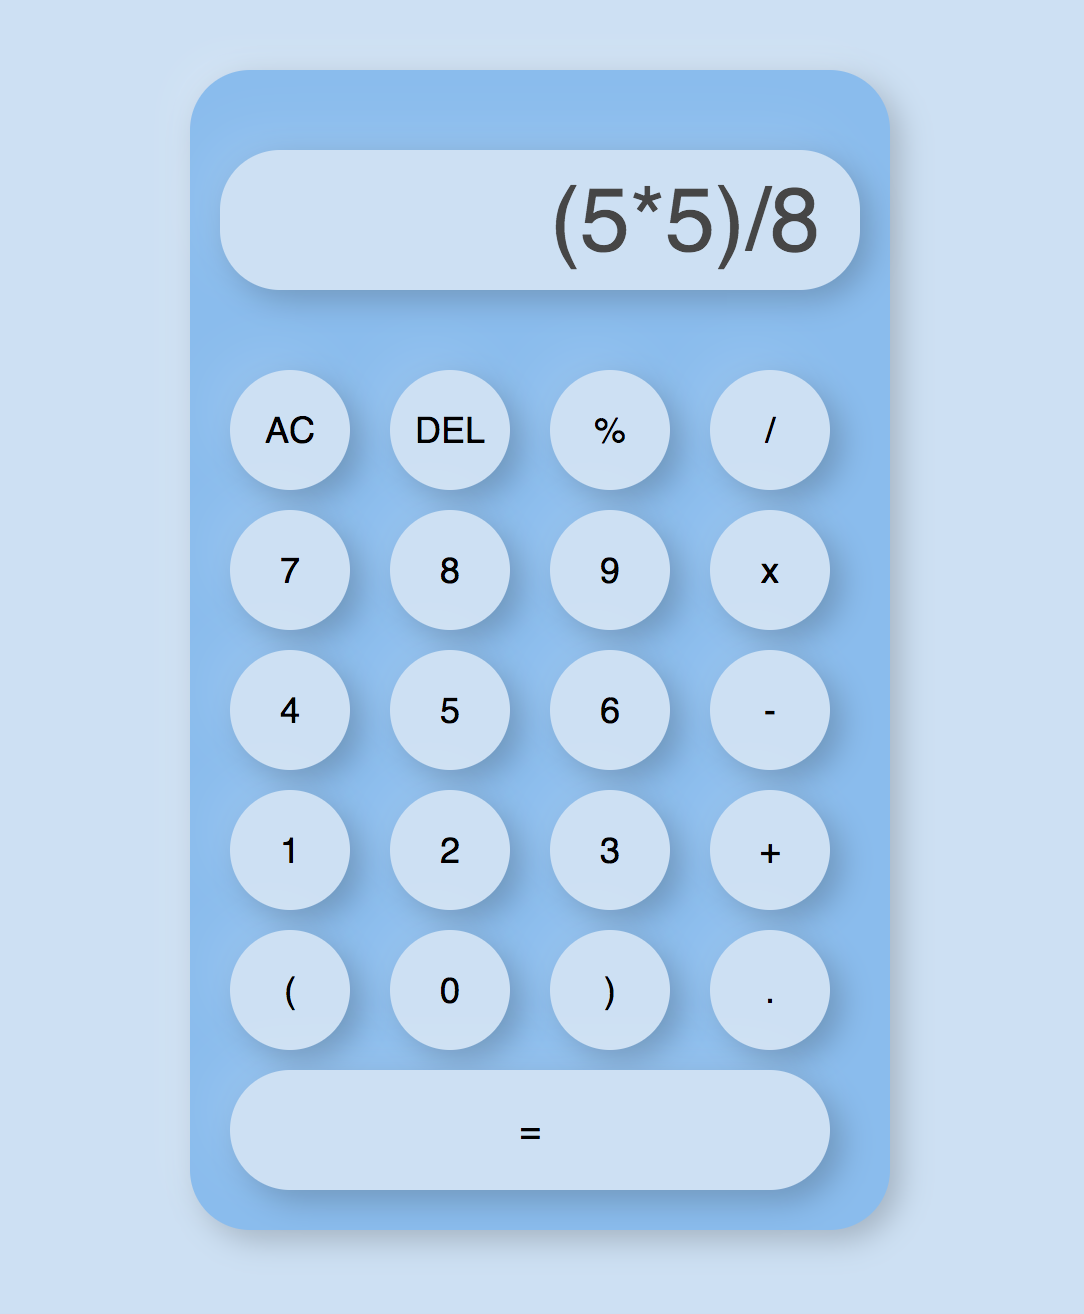
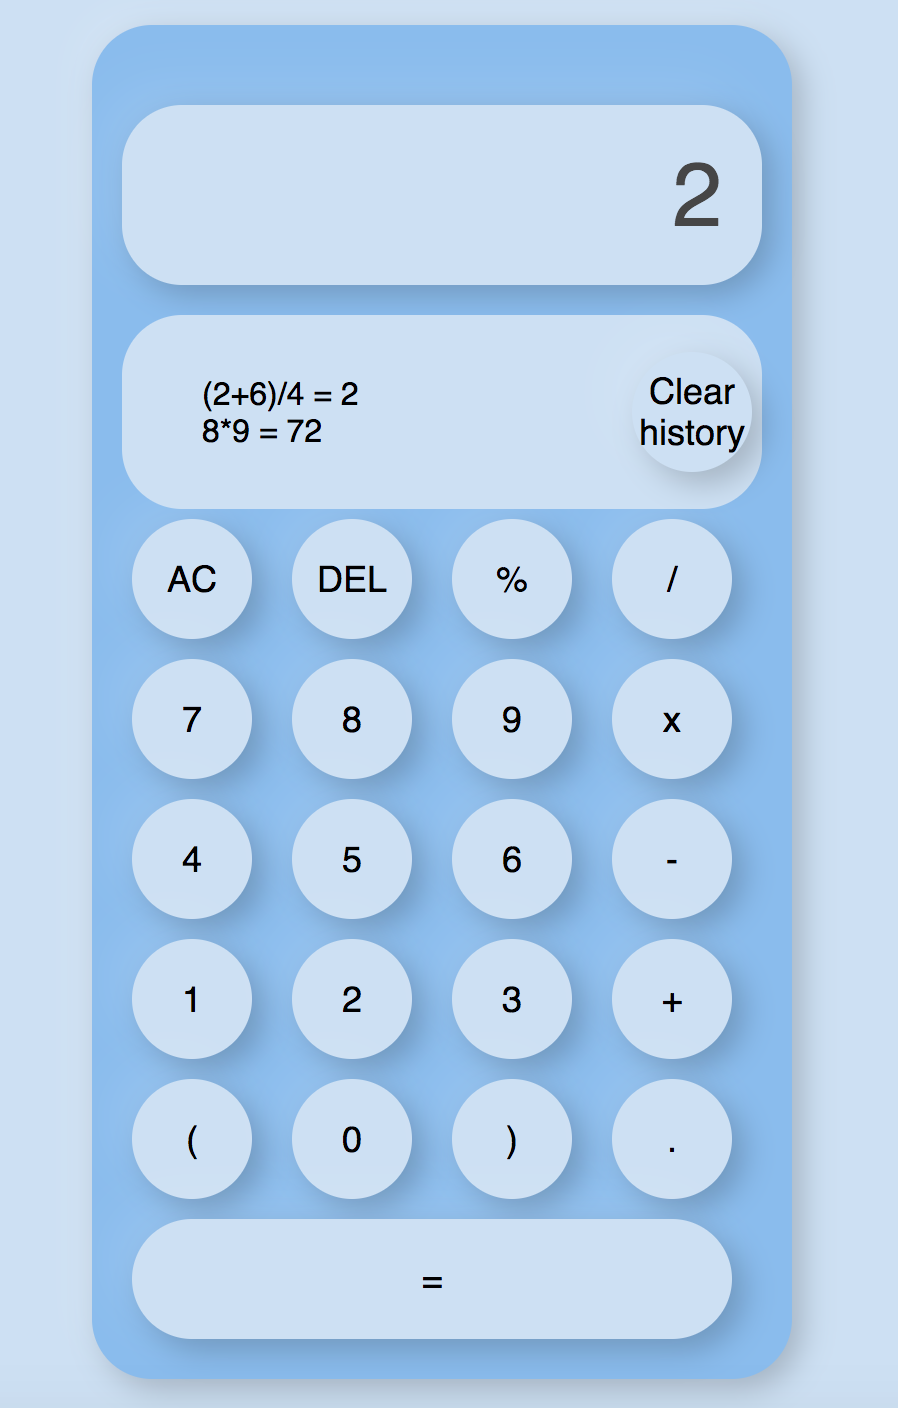
history css abit better

diff --git a/assets/style.css b/assets/style.css
@@ -81,3 +81,26 @@ button:active {
     align-items: center;
     border-radius: 30px;
 }
+
+#clear-history {
+    grid-column: 4;
+    height: 70px;
+    border-radius: 30px;
+    background-color: rgb(70, 70, 70);
+    font-size: 25px;
+    margin: 25px;
+    padding: 10px 20px;
+    box-shadow: -5px -5px 15px rgba(255, 255, 255, 0.1),
+      5px 5px 15px rgba(0, 0, 0, 0.2);
+  }
+  
+
+
+  #history-list {
+    flex-grow: 1;
+    margin-left: 10px;
+    padding: 30px;
+    list-style: none;
+    background: none;
+ 
+  }

diff --git a/README.md b/README.md
@@ -11,7 +11,6 @@ So far this application allows you to:
 ## Screenshot 
 
 ![App Screenshot](/assets/screenshot.png)
-![App Screenshot 2](/assets/screenshot2.png)
 
 ## Cloning repository 
 Open Terminal and insert git clone followed by the copied URL and press enter to create local clone. 
